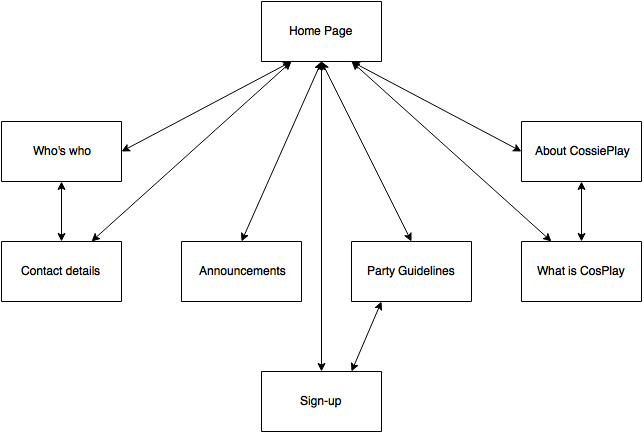
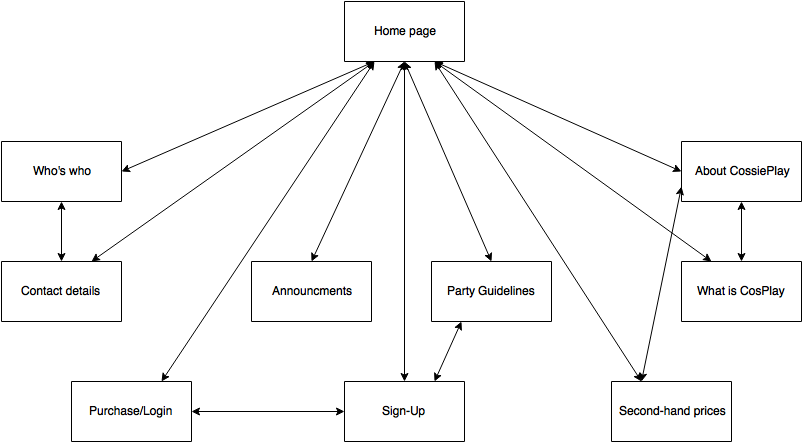
Changed the name of "Home page" to Index, implemented CSS and adjusted pictures

diff --git a/Who's who.html b/Who's who.html
@@ -12,16 +12,85 @@
     <br>
     Steven Rogers – Steve was a Navy Seal for 37 years before getting interested in hosting parties and helping people enyoj their fantasies together in a family-friendly fun environment.
     <br>
+    <br>
     <img src="SteveRogers.jpg" alt="Picture of Steve Rogers">
+    <br>
+    <br>
     <br>
     <br>
     Sally Rogers – After only 6 weeks of her first dress-making course, Sally was already designing and sewing elaborate ball gowns and costumes that amazed her instructors. 10 years later and she’s making even more amazing creations for happy customers.
     <br>
+    <br>
     <img src="SallyRogers.jpg" alt="Picture of Sally Rogers in one of the costumes she has made">
+    <br>
+    <br>
+    <br>
+    <br>
+    <br>
+    <br>
+    <br>
+    <br>
+    <br>
+    <img src="book-fair-678264_1280.jpg" alt="Picture of a book fair visited by cosplayers">
+    <br>
+    <br>
+    <br>
+    <img src="boromir-4-1478698.jpg" alt="Picture of somone waering a boromir costume" style="position:absolute; left:900px; top:714px;"/>
+    <br>
+    <br>
+    <br>
+    <img src="devils-570861_1280.jpg" alt="Picture of a devil costume" style="position:absolute; left:10px; top:1600px;"/>
+    <br>
+    <br>
+    <br>
+    <img src="olaf-630522_1280.jpg" alt="Picture of a Olaf costume" style="position:absolute; left:900px; top:1500px;"/>
+    <br>
+    <br>
+    <br>
+    <br>
+    <br>
+    <br>
+    <br>
+    <br>
+    <br>
+    <br>
+    <br>
+    <br>
+    <br>
+    <br>
+    <br>
+    <br>
+    <br>
+    <br>
+    <br>
+    <br>
+    <br>
+    <br>
+    <br>
+    <br>
+    <br>
+    <br>
+    <br>
+    <br>
+    <br>
+    <br>
+    <br>
+    <br>
+    <br>
+    <br>
+    <br>
+    <br>
+    <br>
+    <br>
+    <br>
+    <br>
+    <br>
+    <br>
+    <br>
     <br>
 <ul>
     <li><a href="Contact details.html">Contact details</a></li>
-    <li><a href="Home.html">Home</a></li>
+    <li><a href="Index.html">Home</a></li>
 </ul>
 </p>
 </body>

diff --git a/Index.html b/Index.html
@@ -1,0 +1,32 @@
+<!DOCTYPE html>
+<html lang="en">
+<head>
+    <meta charset="utf-8">
+    <title>Home</title>
+    <link href="CSS.css" rel="stylesheet">
+</head>
+<body>
+<h1>Home</h1>
+<p>
+    Welcome to CossiePlay's web site, we make cosplay costumes for all of your cosplaying needs. We also have monthly parties for those that want to get their party on.
+    <br>
+    <br>
+    <br>
+    <br>
+    <h2>Links:</h2>
+<ul>
+    <li><a href="Purchase.html">Order a costume</a> </li>
+    <li><a href="Purchase.html">Login</a> </li>
+    <li><a href="Second-hand prices.html">Second-hand costumes</a></li>
+    <li><a href="About CossiePlay.html">About CossiePlay</a></li>
+    <li><a href="What is CosPlay.html">What is CosPlay</a></li>
+    <li><a href="Who's who.html">Who's who</a></li>
+    <li><a href="Contact details.html">Contact details</a></li>
+    <li><a href="Announcements.html">Announcements</a></li>
+    <li><a href="Sign-Up.html">Sign-Up</a></li>
+    <li><a href="Party Guidelines.html">Party Guidelines</a></li>
+    <li><a href="http://www.cosplaytutorial.com/index.php">Costumer Resource</a></li>
+</ul>
+</p>
+</body>
+</html>

diff --git a/About CossiePlay.html b/About CossiePlay.html
@@ -14,10 +14,10 @@
     <br>
     On the first Saturday of every month we hold a “CossiePlay Party” at the town hall. Entry is $15 for adults, $10 for ages 6-17 and kids under 6 are free. Each entry includes one non-alcoholic drink and a glow stick. Parties start at 6pm and run until 11pm. There is always a live DJ at the party (who takes requests) and dancing is common (but not required).
     <br>
-<ul>
-    <li><a href="What is CosPlay.html">What is CosPlay</a></li>
-    <li><a href="Home.html">Home</a></li>
-</ul>
+    <ul>
+        <li><a href="What is CosPlay.html">What is CosPlay</a></li>
+        <li><a href="Index.html">Home</a></li>
+    </ul>
 </p>
 </body>
 </html>

diff --git a/plan.html b/plan.html
@@ -15,7 +15,7 @@
   <p>
     <strong>Name:</strong> garethmullins
     <br>
-    <strong>Login:</strong>
+    <strong>Login:</strong> Spawn001
   </p>
   <h2>Goals</h2>
   <p>
@@ -31,11 +31,11 @@
   </p>
   <h2>Site Flowchart (Structure Diagram)</h2>
   <p>
-    <img src="Flowchart.png." alt="Site Flowchart">
+    <img src="Flowchart.png" alt="Site Flowchart">
   </p>
   <h2>GitHub Repository</h2>
   <p>
-    <a href="http://github.com/...">Enter your repo name and link it here</a>
+    <a href="https://github.com/garethmullins/a1">a1</a>
   </p>
   </body>
 </html>

diff --git a/Party Guidelines.html b/Party Guidelines.html
@@ -12,10 +12,10 @@
     <br>
     Party fees must be paid at the door. Cash or EFTPOS accepted. Credit card payments attract a 2% surcharge. Alcohol is served at the bar to over 18s only. No intoxicated persons will be served, but will be escorted to a taxi – paid by the party-goer.
     <br>
-<ul>
-    <li><a href="Sign-Up.html">Sign-up</a></li>
-    <li><a href="Home.html">Home</a></li>
-</ul>
+    <ul>
+        <li><a href="Sign-Up.html">Sign-up</a></li>
+        <li><a href="Index.html">Home</a></li>
+    </ul>
 </p>
 </body>
 </html>

diff --git a/What is CosPlay.html b/What is CosPlay.html
@@ -18,10 +18,10 @@
     <br>
     The <a href="http://www.cosplay.com">world's largest cosplay community</a>
     <br>
-<ul>
-    <li><a href="About CossiePlay.html">What is CosPlay</a></li>
-    <li><a href="Home.html">Home</a></li>
-</ul>
+    <ul>
+        <li><a href="About CossiePlay.html">What is CosPlay</a></li>
+        <li><a href="Index.html">Home</a></li>
+    </ul>
 </p>
 </body>
 </html>

diff --git a/Announcements.html b/Announcements.html
@@ -16,9 +16,9 @@
     <br>
     Wear your costume in to KFC on Stanton street and you can get a free drink with a 21-piece bucket. Tell them you’ve been to CossiePlay!
     <br>
-<ul>
-    <li><a href="Home.html">Home</a></li>
-</ul>
+    <ul>
+        <li><a href="Index.html">Home</a></li>
+    </ul>
 </p>
 </body>
 </html>

diff --git a/Purchase.html b/Purchase.html
@@ -2,15 +2,14 @@
 <html lang="en">
 <head>
     <meta charset="utf-8">
-    <title>Purchase</title>
+    <title>Purchase/Login</title>
     <link href="CSS.css" rel="stylesheet">
 </head>
 <body>
-<h1>Purchase</h1>
 <p>
     It worked.
 </p>
 <br>
-<a href="Home.html">Home</a>
+<a href="Index.html">Home</a>
 </body>
 </html>

diff --git a/Second-hand prices.html b/Second-hand prices.html
@@ -3,6 +3,7 @@
 <head>
     <meta charset="UTF-8">
     <title>Second-hand costume prices</title>
+    <link href="CSS.css" rel="stylesheet">
 </head>
 <body>
 <table>
@@ -73,6 +74,6 @@
     </tbody>
 </table>
 <br>
-<a href="Home.html">Home</a>
+<a href="Index.html">Home</a>
 </body>
 </html>

diff --git a/Sign-Up.html b/Sign-Up.html
@@ -19,8 +19,9 @@
     </ul>
     <br>
     <ul>
+        <li><a href="Purchase.html">Continue</a></li>
         <li><a href="Party Guidelines.html">Party Guidelines</a></li>
-        <li><a href="Home.html">Home</a></li>
+        <li><a href="Index.html">Home</a></li>
     </ul>
 </p>
 </body>

diff --git a/Contact details.html b/Contact details.html
@@ -18,7 +18,7 @@
     <br>
 <ul>
     <li><a href="Who's who.html">Who's who</a></li>
-    <li><a href="Home.html">Home</a></li>
+    <li><a href="Index.html">Home</a></li>
 </ul>
 </p>
 </body>

diff --git a/CSS.css b/CSS.css
@@ -1,0 +1,8 @@
+body {
+    line-height: 1.25;
+    padding: 15px;
+}
+style{} table, th, td {
+        border: 1px solid #666;
+        border-collapse:collapse;
+    }
